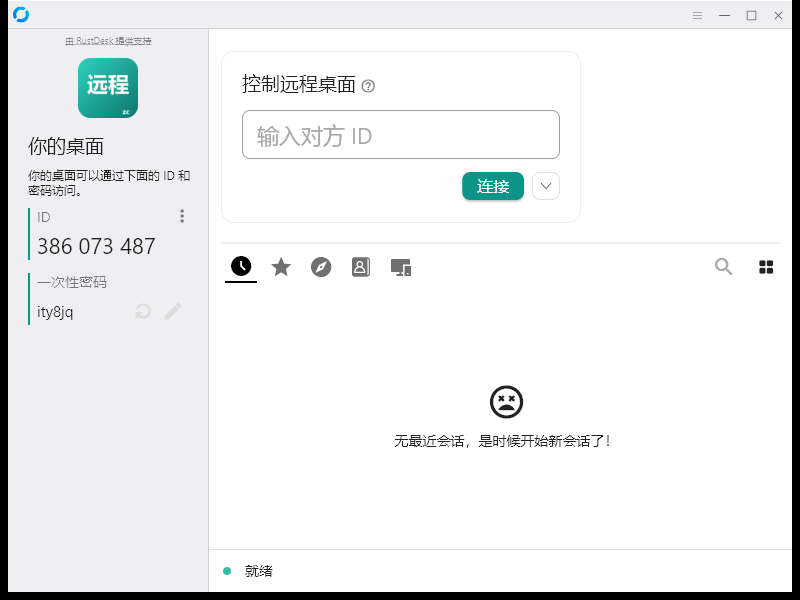
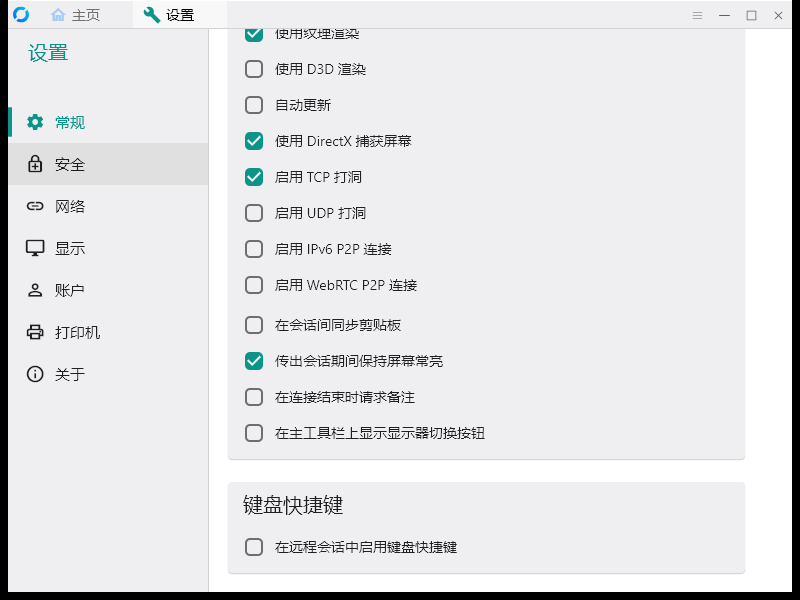
v1.0.1: 品牌收尾 + 主界面重排
- exe 版本信息全品牌化（FileDescription/ProductName/Company/Copyright -> 智策远控/智策AI研发团队）
- MSI 全面品牌化：--app-name 智策远控（产品名/快捷方式/注册表/安装目录），dist exe 同步改名 -> 安装标记匹配，新装不再出现未安装横幅
- 隐藏 Powered by 字样与 登录/通讯录/群组 入口（disable-ab/account/group-panel + hide-powered-by-me 内置开关）
- 关于页：版权 -> 智策AI研发团队·张翀，口号更换，隐私声明移除，网站指向 zcdesk.jiuyeke.cn，颜色换 teal
- 主界面重排：连接卡片居中 + 加宽 + teal 描边 + 阴影

diff --git a/flutter/lib/desktop/pages/desktop_setting_page.dart b/flutter/lib/desktop/pages/desktop_setting_page.dart
@@ -2617,22 +2617,14 @@ class _AboutState extends State<_About> {
                       .marginSymmetric(vertical: 4.0)),
               InkWell(
                   onTap: () {
-                    launchUrlString('https://rustdesk.com/privacy.html');
-                  },
-                  child: Text(
-                    translate('Privacy Statement'),
-                    style: linkStyle,
-                  ).marginSymmetric(vertical: 4.0)),
-              InkWell(
-                  onTap: () {
-                    launchUrlString('https://rustdesk.com');
+                    launchUrlString('https://zcdesk.jiuyeke.cn');
                   },
                   child: Text(
                     translate('Website'),
                     style: linkStyle,
                   ).marginSymmetric(vertical: 4.0)),
               Container(
-                decoration: const BoxDecoration(color: Color(0xFF2c8cff)),
+                decoration: const BoxDecoration(color: Color(0xFF0D9488)),
                 padding:
                     const EdgeInsets.symmetric(vertical: 24, horizontal: 8),
                 child: SelectionArea(
@@ -2643,11 +2635,11 @@ class _AboutState extends State<_About> {
                         crossAxisAlignment: CrossAxisAlignment.start,
                         children: [
                           Text(
-                            'Copyright © ${DateTime.now().toString().substring(0, 4)} Purslane Tech Pte. Ltd.\n$license',
+                            'Copyright © ${DateTime.now().toString().substring(0, 4)} 智策AI研发团队 · 张翀\n基于开源项目 RustDesk（AGPL-3.0）构建',
                             style: const TextStyle(color: Colors.white),
                           ),
                           Text(
-                            translate('Slogan_tip'),
+                            '让远程控制更简单、更私有',
                             style: TextStyle(
                                 fontWeight: FontWeight.w800,
                                 color: Colors.white),

diff --git a/flutter/lib/desktop/pages/connection_page.dart b/flutter/lib/desktop/pages/connection_page.dart
@@ -311,15 +311,16 @@ class _ConnectionPageState extends State<ConnectionPage>
             child: Column(
           children: [
             Row(
+              mainAxisAlignment: MainAxisAlignment.center,
               children: [
                 Flexible(child: _buildRemoteIDTextField(context)),
               ],
-            ).marginOnly(top: 22),
-            SizedBox(height: 12),
-            Divider().paddingOnly(right: 12),
+            ).marginOnly(top: 34, bottom: 6),
+            SizedBox(height: 10),
+            Divider().paddingOnly(right: 12, left: 12),
             Expanded(child: PeerTabPage()),
           ],
-        ).paddingOnly(left: 12.0)),
+        ).paddingOnly(left: 12.0, right: 12.0)),
         if (!isOutgoingOnly) const Divider(height: 1),
         if (!isOutgoingOnly) OnlineStatusWidget()
       ],
@@ -377,11 +378,18 @@ class _ConnectionPageState extends State<ConnectionPage>
   /// Search for a peer.
   Widget _buildRemoteIDTextField(BuildContext context) {
     var w = Container(
-      width: 320 + 20 * 2,
-      padding: const EdgeInsets.fromLTRB(20, 24, 20, 22),
+      width: 420 + 20 * 2,
+      padding: const EdgeInsets.fromLTRB(20, 26, 20, 24),
       decoration: BoxDecoration(
-          borderRadius: const BorderRadius.all(Radius.circular(13)),
-          border: Border.all(color: Theme.of(context).colorScheme.background)),
+          borderRadius: const BorderRadius.all(Radius.circular(16)),
+          border: Border.all(
+              color: MyTheme.accent.withOpacity(0.45), width: 1.2),
+          boxShadow: [
+            BoxShadow(
+                color: Colors.black.withOpacity(0.04),
+                blurRadius: 12,
+                offset: const Offset(0, 4)),
+          ]),
       child: Ink(
         child: Column(
           children: [

diff --git a/src/common.rs b/src/common.rs
@@ -143,6 +143,23 @@ fn zc_seed_default_server() {
     if hbb_common::config::APP_NAME.read().unwrap().eq("RustDesk") {
         *hbb_common::config::APP_NAME.write().unwrap() = "智策远控".to_owned();
     }
+    // 品牌化开关：隐藏 "Powered by" 字样与登录/通讯录/群组入口（自建无 API，均无作用）
+    let zc_hard_opts = [
+        ("hide-powered-by-me", "Y"),
+        ("disable-ab", "Y"),
+        ("disable-account", "Y"),
+        ("disable-group-panel", "Y"),
+    ];
+    for (k, v) in zc_hard_opts {
+        hbb_common::config::BUILTIN_SETTINGS
+            .write()
+            .unwrap()
+            .insert(k.to_owned(), v.to_owned());
+        hbb_common::config::HARD_SETTINGS
+            .write()
+            .unwrap()
+            .insert(k.to_owned(), v.to_owned());
+    }
     const ZC_ID_SERVER: &str = "47.119.167.86";
     const ZC_RELAY_SERVER: &str = "47.119.167.86";
     const ZC_KEY: &str = "L2ksXhK9ZSS+shd3p0J10Sb2BtZGb4vqr8KBHBswF38=";
